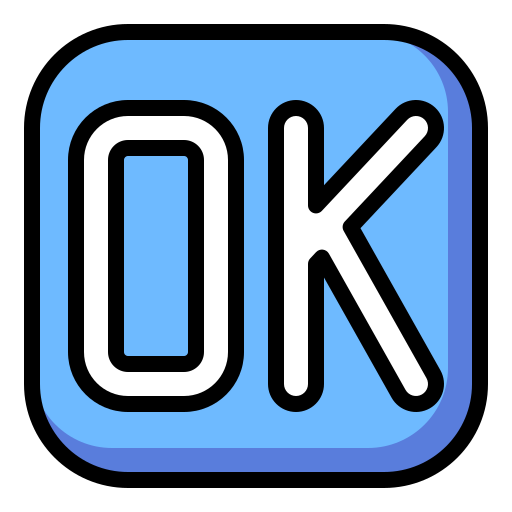
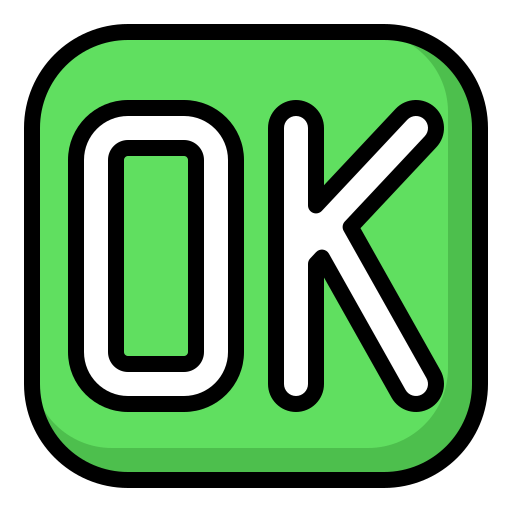
Dùng lõi 1.0.17: ô "Mã Scan ghi nhận cuối", nút START màu theo D100, ảnh ok.png mới
- Tab Main, cột phải (theo mockup người dùng 2026-10-27): logo thu nhỏ 110 -> 86, ô lịch
  sử dời lên (cao 290), thêm ô "Mã Scan ghi nhận cuối" (bind ShellViewModel.LastRecordedScan
  — chép theo "Mã Scan ghi nhận" ở footer, không bị xoá khi đổi SCAN MODE <-> REV MODE).
- Thêm chuỗi Main_LastRecordedScan (VI/EN).
- PackageReference EolTester.Platform.Wpf -> 1.0.17 (nút START luôn "START", màu theo
  CMD_START/D100 — xem commit lõi 1.0.17).
- Thay ảnh Assets/ok.png (người dùng thay 2026-10-27).

Cần kiểm tra trên PLC thật: màu nút START khi nút được bật.

diff --git a/src/EolTester.App/Views/MainTabView.xaml b/src/EolTester.App/Views/MainTabView.xaml
@@ -172,16 +172,27 @@
         </Border>
         </StackPanel>
 
-        <!-- Phải: logo + lịch sử thông báo -->
+        <!-- Phải: logo + lịch sử thông báo + Mã Scan ghi nhận cuối. Logo thu nhỏ (110 → 86) và lịch sử dời lên để
+             đủ chỗ cho ô "Mã Scan ghi nhận cuối" trong vùng tab cố định (canvas 1400×765) — theo mockup người
+             dùng 2026-10-27 (đồng bộ với máy C25). -->
         <StackPanel Grid.Column="2" Margin="4">
-            <StackPanel Orientation="Horizontal" HorizontalAlignment="Center" Margin="0,0,0,16">
-                <Border Width="210" Height="110" Padding="6">
+            <StackPanel Orientation="Horizontal" HorizontalAlignment="Center" Margin="0,0,0,4">
+                <Border Width="210" Height="86" Padding="6">
                     <Image Source="/Assets/Logo1.png" Stretch="Uniform" HorizontalAlignment="Center" VerticalAlignment="Center"/>
                 </Border>
             </StackPanel>
 
-            <TextBlock Text="{loc:Tr Main_NotificationHistory}" FontWeight="Bold" Margin="0,8,0,4"/>
-            <ListBox ItemsSource="{Binding DataContext.NotificationHistory, RelativeSource={RelativeSource AncestorType=Window}}" Height="300"/>
+            <TextBlock Text="{loc:Tr Main_NotificationHistory}" FontWeight="Bold" Margin="0,4,0,4"/>
+            <ListBox ItemsSource="{Binding DataContext.NotificationHistory, RelativeSource={RelativeSource AncestorType=Window}}" Height="290"/>
+
+            <!-- ShellViewModel.LastRecordedScan: chép theo "Mã Scan ghi nhận" ở footer nhưng không bị xoá khi đổi
+                 SCAN MODE ↔ REV MODE. Cùng cỡ chữ với ô footer (ScanFieldBox, MainWindow.xaml) để mã dài hiển thị
+                 vừa như nhau. -->
+            <TextBlock Text="{loc:Tr Main_LastRecordedScan}" FontWeight="Bold" Margin="0,12,0,4"/>
+            <TextBox Text="{Binding DataContext.LastRecordedScan, RelativeSource={RelativeSource AncestorType=Window}, Mode=OneWay}"
+                     IsReadOnly="True" Focusable="False" IsTabStop="False"
+                     FontSize="27" FontWeight="Bold" Foreground="Black" Background="White"
+                     BorderBrush="#C7CCD6" BorderThickness="1" Padding="8,4" VerticalContentAlignment="Center"/>
         </StackPanel>
     </Grid>
 </UserControl>
